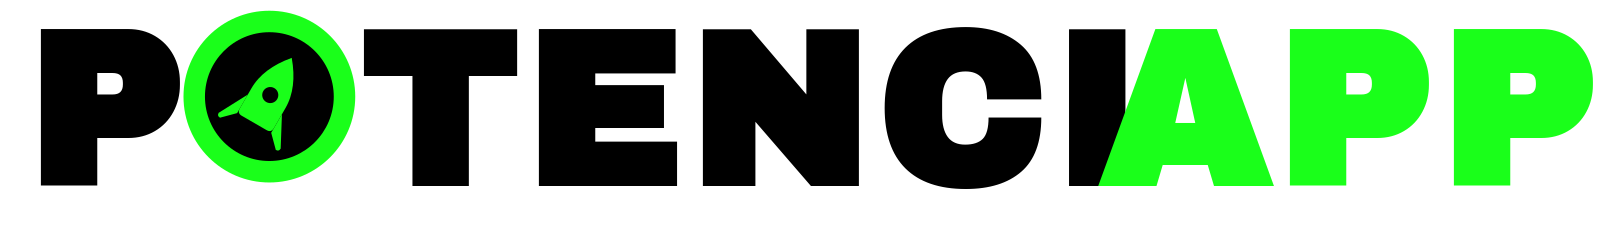
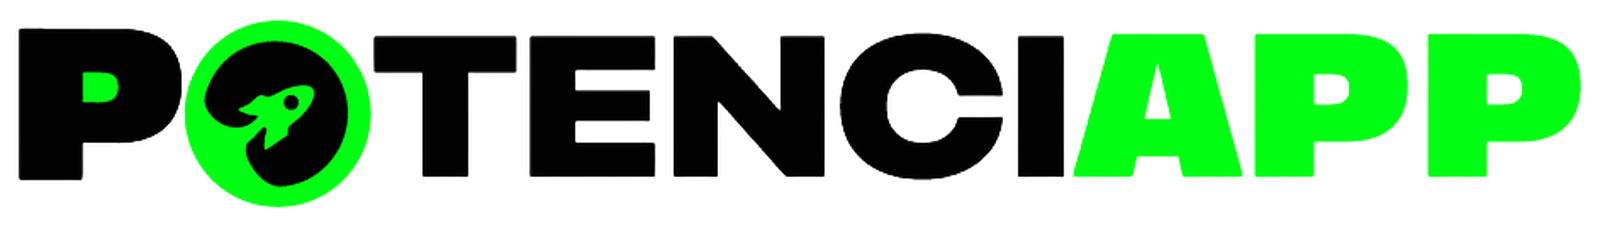
feat(branding): usar imagenes originales del diseno (reemplaza SVG recreados aproximados)

diff --git a/public/branding/README.md b/public/branding/README.md
@@ -1,111 +1,88 @@
-# Branding Potenciapp — Assets
+# Branding Potenciapp — Assets (REAL, partiendo del diseño original)
 
-Logos e iconos de Potenciapp en SVG (vector, escalables) y PNG (varios tamaños) + favicon multi-size.
+Logos e iconos de Potenciapp en PNG con **fondo transparente real**, derivados de los archivos originales del diseño. Ya no son recreaciones SVG aproximadas — son las imágenes oficiales procesadas.
 
 ## Estructura
 
 ```
 branding/
-├── svg/                       Vectores (preferidos para web)
-│   ├── mark.svg               Solo el ícono (círculo verde con cohete)
-│   ├── favicon.svg            Igual al mark; usar en <link rel="icon">
-│   ├── isotipo-light.svg      P + ícono (texto NEGRO, para fondos claros)
-│   ├── isotipo-dark.svg       P + ícono (texto BLANCO, para fondos oscuros)
-│   ├── wordmark-light.svg     POTENCIAPP horizontal (texto NEGRO)
-│   └── wordmark-dark.svg      POTENCIAPP horizontal (texto BLANCO)
+├── png/                       Logos en varios tamaños
+│   ├── mark-{64,128,256,512,1024}.png       (ícono solo, cuadrado)
+│   ├── mark-full.png                         (resolución completa, ~373×374)
+│   ├── isotipo-light-{256,512,1024}.png      P + ícono, P negra (fondos claros)
+│   ├── isotipo-dark-{256,512,1024}.png       P + ícono, P blanca (fondos oscuros)
+│   ├── isotipo-{light,dark}-full.png         resolución completa, ~627×492
+│   ├── wordmark-light-{400,800,1600}.png     POTENCIAPP, POTENCI negro (fondos claros)
+│   ├── wordmark-dark-{400,800,1600}.png      POTENCIAPP, POTENCI blanco (fondos oscuros)
+│   └── wordmark-{light,dark}-full.png        resolución completa, ~943×133
 │
-├── png/                       Rasterizados (para casos donde no se pueda SVG)
-│   ├── mark-{64,128,256,512,1024}.png
-│   ├── isotipo-{light,dark}-{512,1024,2048}.png
-│   └── wordmark-{light,dark}-{800,1600,3200}.png
-│
-└── favicons/                  Para <head>
-    ├── favicon.ico            multi-size (16/32/48/64) — clásico
-    ├── favicon-{16,32,48,64}.png
-    └── favicon-180.png        Apple Touch Icon
+└── favicons/
+    ├── favicon.ico                           multi-size 16/32/48/64
+    ├── favicon-{16,32,48,64}.png             tamaños chicos
+    └── favicon-180.png                       Apple Touch Icon
 ```
 
-Los archivos con sufijo `-preview` son verificaciones visuales que generé al armar los assets. Podés borrarlos a mano si querés limpieza, no se usan en producción.
+> Si ves archivos terminados en `-preview.png` o `-on-ink-preview.png`, son verificaciones internas que se pueden ignorar/borrar.
+
+## Cómo usar (URLs públicas en producción)
+
+Una vez subidos a `POTENCIAPP-WEB` y deployado en Vercel, las URLs van a ser:
+
+```
+https://www.potenciapp.com/branding/png/mark-512.png
+https://www.potenciapp.com/branding/png/wordmark-light-800.png
+https://www.potenciapp.com/branding/png/wordmark-dark-800.png
+https://www.potenciapp.com/branding/png/isotipo-light-512.png
+https://www.potenciapp.com/branding/png/isotipo-dark-512.png
+https://www.potenciapp.com/branding/favicons/favicon.ico
+https://www.potenciapp.com/branding/favicons/favicon-180.png
+
+# Aliases automáticos de Next.js:
+https://www.potenciapp.com/icon.svg       (fallback vectorial)
+https://www.potenciapp.com/favicon.ico
+https://www.potenciapp.com/apple-icon.png
+```
 
 ## Paleta oficial
 
 | Token | Hex | Uso |
 |---|---|---|
-| Verde principal | `#1AFF1A` | Acentos, "APP" del wordmark, anillo del mark, el cohete |
-| Negro | `#000000` | "POTENCI" del wordmark, fondo del disco interior del mark |
-| Ink (sobre claro) | `#0b1220` | Texto principal cuando se evita el negro puro |
-| Paper | `#f7f9f7` | Fondo de página |
-
-> **Importante:** El verde es lime/neón puro. No confundir con verdes corporativos más oscuros (ej. `#1f7a3e`) que aparecen en algunas variantes históricas del portal. El verde del logo es el verde de marca.
+| Verde lime | `#1AFF1A` | Brand color principal — APP del wordmark, anillo del mark, ojo de la P |
+| Negro | `#000000` | POTENCI del wordmark, P del isotipo, interior del mark |
+| Ink | `#0b1220` | Texto principal en lugar de negro puro cuando se busca menos contraste |
+| Paper | `#f7f9f7` | Fondo de página claro |
 
 ## Tipografía
 
-**Archivo Black** (Google Fonts) — los wordmarks fueron renderizados con esta fuente. Si tu app no la carga, los SVG tienen fallback a Impact / Inter / system-ui, pero el resultado solo será 100% fiel con Archivo Black cargada:
-
-```html
-<link rel="preconnect" href="https://fonts.googleapis.com">
-<link rel="preconnect" href="https://fonts.gstatic.com" crossorigin>
-<link href="https://fonts.googleapis.com/css2?family=Archivo+Black&family=Inter:wght@400;500;600;700;800&display=swap" rel="stylesheet">
-```
-
-Para body usar **Inter** (400-800). Archivo Black SOLO para el logo y eventualmente para headlines grandes; no usar para body porque es muy pesada.
-
-## Cómo usar los assets
-
-### En código (HTML / React / etc.)
-
-Una vez subidos al repo y desplegados, las URLs públicas van a ser:
-
-```
-https://gisbert.potenciapp.com/branding/svg/wordmark-light.svg
-https://gisbert.potenciapp.com/branding/svg/mark.svg
-https://gisbert.potenciapp.com/branding/png/wordmark-light-1600.png
-https://potenciapp.com/branding/favicons/favicon.ico
-... etc
-```
-
-(Las URLs son las mismas sobre cualquier subdominio del proyecto, porque están en `public/branding/`.)
-
-### En el `<head>` para favicon
-
-```html
-<link rel="icon" type="image/svg+xml" href="/branding/svg/favicon.svg">
-<link rel="icon" type="image/png" sizes="32x32" href="/branding/favicons/favicon-32.png">
-<link rel="icon" type="image/png" sizes="16x16" href="/branding/favicons/favicon-16.png">
-<link rel="apple-touch-icon" sizes="180x180" href="/branding/favicons/favicon-180.png">
-<link rel="shortcut icon" href="/branding/favicons/favicon.ico">
-```
-
-### En componentes React (project-tracker)
-
-Reemplazar el cuadrado con la letra "P" hardcodeada por el SVG real:
-
-```tsx
-// Antes (placeholder):
-<div className="w-10 h-10 rounded-lg bg-white/10 border border-white/20
-                flex items-center justify-center font-extrabold text-white">
-  P
-</div>
-
-// Después (logo real):
-<img src="/branding/svg/mark.svg" alt="Potenciapp" className="w-10 h-10" />
-```
-
-Para el header con texto:
-
-```tsx
-<img src="/branding/svg/wordmark-light.svg" alt="Potenciapp" className="h-8" />
-// o, sobre fondo oscuro:
-<img src="/branding/svg/wordmark-dark.svg" alt="Potenciapp" className="h-8" />
-```
+- **Logo:** Archivo Black (los wordmarks reales ya tienen las letras embebidas como pixels — no hace falta cargar la fuente solo para el logo)
+- **Body / UI:** Inter (400-800) desde Google Fonts
 
 ## Cuándo usar qué variante
 
-- **mark.svg** — favicon, app icon, avatares de la marca, casos donde no entra el wordmark.
-- **isotipo-light/dark.svg** — header de la app, presentaciones, contextos donde querés P + ícono sin todo el wordmark.
-- **wordmark-light/dark.svg** — footer, página de login, contextos comerciales donde el nombre debe leerse claro.
-- **light vs dark** — light = texto negro para fondos claros (paper, blanco). dark = texto blanco para fondos oscuros (ink, gradiente hero, negro).
+- **mark.png** — favicon, app icon, avatar de la marca, casos donde no entra el wordmark.
+- **isotipo-light/dark.png** — header de app, presentaciones donde querés P + ícono pero no todo el wordmark.
+- **wordmark-light/dark.png** — footer, login, contextos comerciales donde el nombre tiene que leerse claro.
+- **light vs dark** — `light` es texto negro para fondos claros (paper, blanco). `dark` es texto blanco para fondos oscuros (ink, gradiente, negro).
 
-## Subir al repo
+## En código (HTML / React)
 
-Hay un script `subir_branding_a_project_tracker.bat` en la carpeta padre del workspace que hace `git pull` + copia los assets a `project-tracker/public/branding/` + commit + push. Ejecutalo después de que estés conforme con los logos.
+```html
+<!-- Favicon -->
+<link rel="icon" type="image/x-icon" href="/branding/favicons/favicon.ico">
+<link rel="apple-touch-icon" href="/branding/favicons/favicon-180.png">
+
+<!-- Header oscuro (sobre fondo --pp-ink o negro) -->
+<img src="/branding/png/wordmark-dark-800.png" alt="Potenciapp" width="200" height="28">
+
+<!-- Header claro (sobre fondo blanco/paper) -->
+<img src="/branding/png/wordmark-light-800.png" alt="Potenciapp" width="200" height="28">
+
+<!-- Avatar / ícono compacto -->
+<img src="/branding/png/mark-128.png" alt="Potenciapp" width="40" height="40">
+```
+
+Si lo usás desde un repo distinto (no `POTENCIAPP-WEB`), referenciá la URL absoluta:
+
+```tsx
+<img src="https://www.potenciapp.com/branding/png/wordmark-dark-800.png" alt="Potenciapp" />
+```
